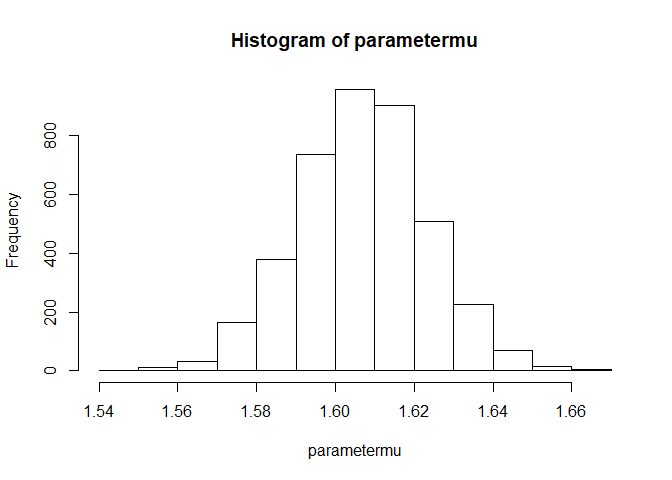
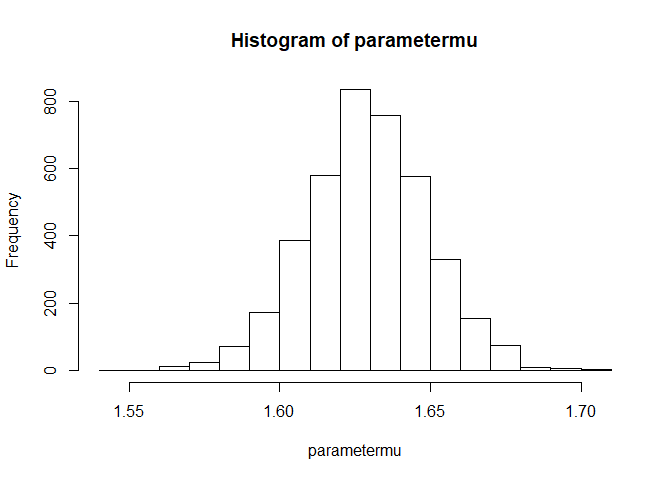
adding code chunks for stan code

diff --git a/Code/Stan-introduction.md b/Code/Stan-introduction.md
@@ -41,7 +41,7 @@ install.packages("rstan", repos = "https://cloud.r-project.org/", dependencies =
 
     ## 
     ## The downloaded binary packages are in
-    ##  C:\Users\akh\AppData\Local\Temp\Rtmpwll70d\downloaded_packages
+    ##  C:\Users\akh\AppData\Local\Temp\RtmpIdSV26\downloaded_packages
 
 ``` r
 pkgbuild::has_build_tools(debug = TRUE) 
@@ -125,66 +125,54 @@ Stan files use double slash marks for comments // Lines within blocks
 should end with a semi colon ;. After the model block, leave one line
 underneath it.
 
------
-
-data {
-
-}
-
-parameters {
-
-}
-
-model {
-
-}
-
------
+    data {
+    
+    }
+    
+    parameters {
+    
+    }
+    
+    model {
+    
+    }
 
 These are the blocks I referred to earlier, and are the most used. There
 are others you’ll learn about later. Lets start with the first, data.
 Pretty straitforward, we need to tell the model what data we’re working
 with. Down below you’ll see how we format it.
 
------
-
-data {  
-int N;  
-real Y\[N\];  
-}
-
-parameters {
-
-}
-
-model {
-
-}
-
------
+    data {  
+      int N;  
+      real Y[N];  
+    }
+    
+    parameters {
+    
+    }
+    
+    model {
+    
+    }
 
 First we include our sample size. int because we are dealing with
 integers, a discrete count. Second, our observations, Y\[N\]. Real
 because our data are continuous. N is in brackets to tell stan that we
 have an array of data points for N individuals (100 in this case).
 
------
-
-data {  
-int N;  
-real Y\[N\];  
-}
-
-parameters {  
-real mu;  
-real\<lower=0\> sigma;  
-}
-
-model {
-
-}
-
------
+    data {  
+      int N;  
+      real Y[N];  
+    }
+    
+    parameters {  
+      real mu;  
+      real<lower=0> sigma;  
+    }
+    
+    model {
+    
+    }
 
 Our model section includes the parameters we are trying to estimate from
 our data. In our simple model here, we only are worried about mu and
@@ -192,26 +180,24 @@ sigma. Both are continuous, so type real, but we want to make sure the
 model knows that sigma cannot be negative. Thus we add in the
 \<lower=0\> modifier. That’s it for parameters.
 
------
-
+``` 
 data {  
-int N;  
-real Y\[N\];  
+  int N;   
+  real Y[N];  
 }
 
 parameters {  
-real mu;  
-real\<lower=0\> sigma;  
-}
+  real mu;  
+  real<lower=0> sigma;  
+}  
 
 model {  
-for(i in 1:N)  
-Y\[i\] \~ normal(mu, sigma);  
-mu \~ normal(1.7, 0.3)  
-sigma \~ cauchy(0, 1);  
-}
-
------
+  for(i in 1:N)  
+   Y[i] ~ normal(mu, sigma);  
+  mu ~ normal(1.7, 0.3)  
+  sigma ~ cauchy(0, 1);  
+}  
+```
 
 The model block gets a little more complicated, as will parameters and
 data in more complicated models that we will see later. For right now,
@@ -261,8 +247,8 @@ fit = stan(
     ## Chain 1: Iteration: 1800 / 2000 [ 90%]  (Sampling)
     ## Chain 1: Iteration: 2000 / 2000 [100%]  (Sampling)
     ## Chain 1: 
-    ## Chain 1:  Elapsed Time: 0.193 seconds (Warm-up)
-    ## Chain 1:                0.221 seconds (Sampling)
+    ## Chain 1:  Elapsed Time: 0.206 seconds (Warm-up)
+    ## Chain 1:                0.208 seconds (Sampling)
     ## Chain 1:                0.414 seconds (Total)
     ## Chain 1: 
     ## 
@@ -286,9 +272,9 @@ fit = stan(
     ## Chain 2: Iteration: 1800 / 2000 [ 90%]  (Sampling)
     ## Chain 2: Iteration: 2000 / 2000 [100%]  (Sampling)
     ## Chain 2: 
-    ## Chain 2:  Elapsed Time: 0.204 seconds (Warm-up)
-    ## Chain 2:                0.178 seconds (Sampling)
-    ## Chain 2:                0.382 seconds (Total)
+    ## Chain 2:  Elapsed Time: 0.182 seconds (Warm-up)
+    ## Chain 2:                0.161 seconds (Sampling)
+    ## Chain 2:                0.343 seconds (Total)
     ## Chain 2: 
     ## 
     ## SAMPLING FOR MODEL 'my_stan_model' NOW (CHAIN 3).
@@ -311,9 +297,9 @@ fit = stan(
     ## Chain 3: Iteration: 1800 / 2000 [ 90%]  (Sampling)
     ## Chain 3: Iteration: 2000 / 2000 [100%]  (Sampling)
     ## Chain 3: 
-    ## Chain 3:  Elapsed Time: 0.188 seconds (Warm-up)
-    ## Chain 3:                0.227 seconds (Sampling)
-    ## Chain 3:                0.415 seconds (Total)
+    ## Chain 3:  Elapsed Time: 0.214 seconds (Warm-up)
+    ## Chain 3:                0.423 seconds (Sampling)
+    ## Chain 3:                0.637 seconds (Total)
     ## Chain 3: 
     ## 
     ## SAMPLING FOR MODEL 'my_stan_model' NOW (CHAIN 4).
@@ -336,9 +322,9 @@ fit = stan(
     ## Chain 4: Iteration: 1800 / 2000 [ 90%]  (Sampling)
     ## Chain 4: Iteration: 2000 / 2000 [100%]  (Sampling)
     ## Chain 4: 
-    ## Chain 4:  Elapsed Time: 0.192 seconds (Warm-up)
-    ## Chain 4:                0.242 seconds (Sampling)
-    ## Chain 4:                0.434 seconds (Total)
+    ## Chain 4:  Elapsed Time: 0.201 seconds (Warm-up)
+    ## Chain 4:                0.161 seconds (Sampling)
+    ## Chain 4:                0.362 seconds (Total)
     ## Chain 4:
 
 The function stan can be manipulated in greater detail, but the only
@@ -364,11 +350,11 @@ print(fit)
     ## post-warmup draws per chain=1000, total post-warmup draws=4000.
     ## 
     ##         mean se_mean   sd   2.5%    25%    50%    75%  97.5% n_eff Rhat
-    ## mu      1.61    0.00 0.02   1.58   1.60   1.61   1.62   1.64  3479    1
-    ## sigma   0.16    0.00 0.01   0.14   0.16   0.16   0.17   0.19  3475    1
-    ## lp__  129.64    0.02 1.00 127.04 129.25 129.95 130.34 130.61  1908    1
+    ## mu      1.63    0.00 0.02   1.59   1.62   1.63   1.64   1.67  3265    1
+    ## sigma   0.20    0.00 0.01   0.17   0.19   0.20   0.21   0.23  3030    1
+    ## lp__  110.60    0.03 1.07 107.77 110.22 110.92 111.33 111.60  1286    1
     ## 
-    ## Samples were drawn using NUTS(diag_e) at Fri Aug 16 14:18:31 2019.
+    ## Samples were drawn using NUTS(diag_e) at Tue Aug 20 13:19:43 2019.
     ## For each parameter, n_eff is a crude measure of effective sample size,
     ## and Rhat is the potential scale reduction factor on split chains (at 
     ## convergence, Rhat=1).
